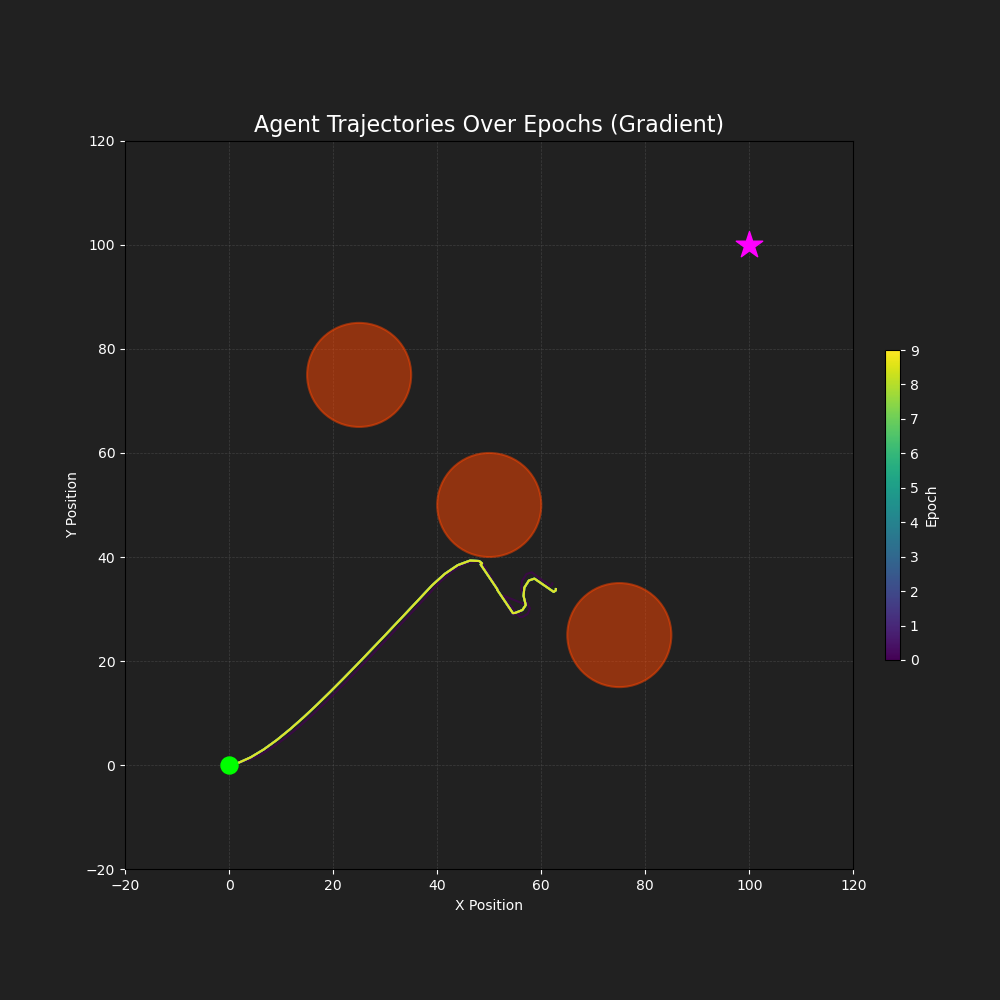
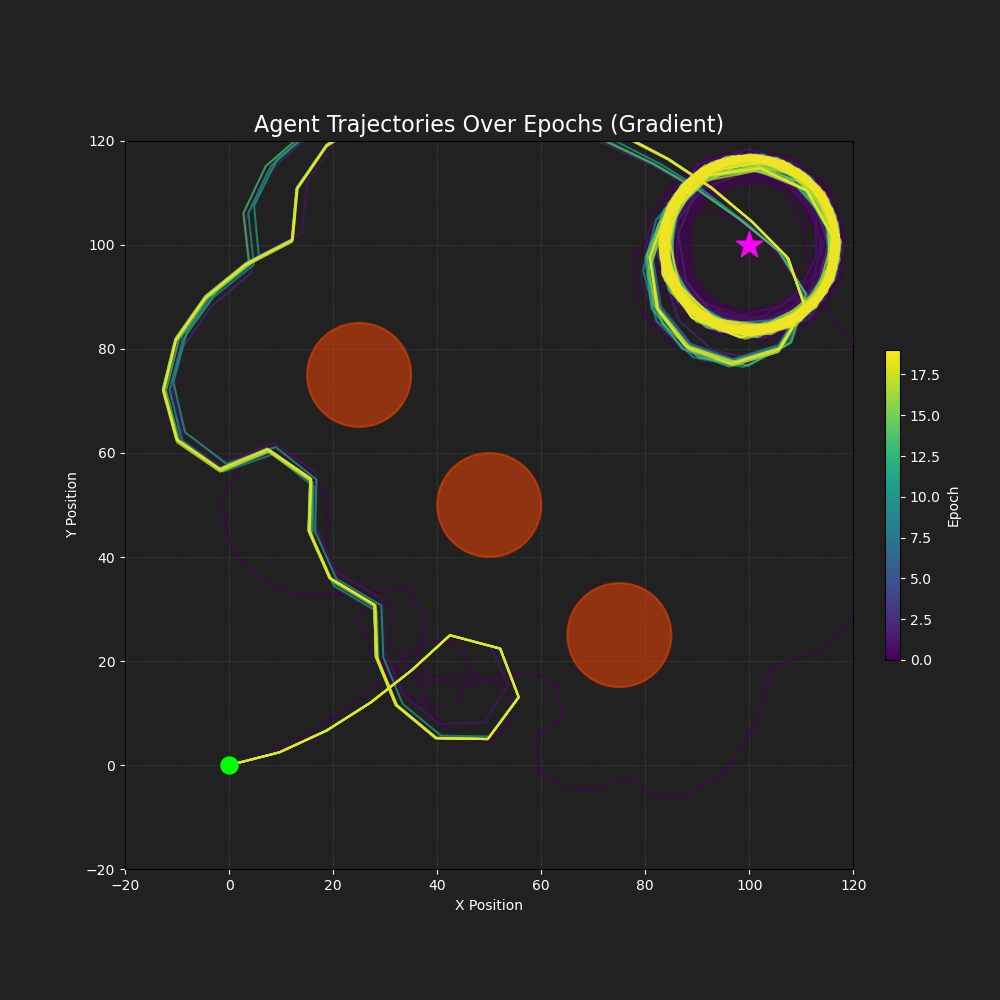
idk maybe revert

diff --git a/src/brains/learning_brain.py b/src/brains/learning_brain.py
@@ -1,9 +1,10 @@
 import numpy as np
 import pandas as pd
 from src.brains.base_brain import BaseBrain
+from src.models.lif_neuron import LIFNeuron # Import LIFNeuron
 
 class LearningBrain(BaseBrain):
-    def __init__(self, connectome_path, neuron_types_path, learning_rate=0.01, tau_pre=20, tau_post=20, spike_threshold=0.9):
+    def __init__(self, connectome_path, neuron_types_path, learning_rate=0.01, tau_pre=20, tau_post=20):
         self.connectome_path = connectome_path
         self.connectome, self.neuron_to_idx, self.all_neuron_names = self._load_connectome(connectome_path)
         self.neuron_types = self._categorize_neurons(neuron_types_path)
@@ -11,19 +12,24 @@ class LearningBrain(BaseBrain):
         self.sensory_neurons_idx = [self.neuron_to_idx[n] for n in self.neuron_types['sensory'] if n in self.neuron_to_idx]
         self.motor_neurons_idx = [self.neuron_to_idx[n] for n in self.neuron_types['motor'] if n in self.neuron_to_idx]
         
+        # Initialize LIF neurons
+        self.neurons = [LIFNeuron() for _ in range(len(self.all_neuron_names))]
+
         # Learning parameters
         self.learning_rate = learning_rate
         self.tau_pre = tau_pre
         self.tau_post = tau_post
-        self.spike_threshold = 0.5 # Decreased spike threshold for easier firing
 
-        # Neuron state variables
+        # Neuron state variables for STDP
         num_neurons = len(self.all_neuron_names)
         self.pre_synaptic_trace = np.zeros(num_neurons)
         self.post_synaptic_trace = np.zeros(num_neurons)
         self.eligibility_trace = np.zeros_like(self.connectome)
 
-        print(f"Initialized LearningBrain with STDP: {len(self.sensory_neurons_idx)} sensory, {len(self.motor_neurons_idx)} motor neurons")
+        # Keep track of current time for LIF neuron stepping
+        self.current_time = 0.0
+
+        print(f"Initialized LearningBrain with STDP and LIF neurons: {len(self.sensory_neurons_idx)} sensory, {len(self.motor_neurons_idx)} motor neurons")
 
     def _load_connectome(self, path):
         df = pd.read_excel(path, sheet_name='Sheet1')
@@ -62,50 +68,162 @@ class LearningBrain(BaseBrain):
         return {'sensory': sensory_neurons, 'motor': motor_neurons}
 
     def get_action(self, observation):
-        # --- Separate Sensory Processing for Food and Traps ---
-        food_sensory_input = np.zeros(len(self.all_neuron_names))
-        # Increased scaling for food sensory input
-        food_sensory_input[self.sensory_neurons_idx[0]] = observation['gradient_x'] * 5.0
-        food_sensory_input[self.sensory_neurons_idx[1]] = observation['gradient_y'] * 5.0
+        # Increment current time for LIF neuron stepping
+        self.current_time += 1.0
 
-        trap_sensory_input = np.zeros(len(self.all_neuron_names))
+        # --- Calculate Input Current for each Neuron ---
+        # Initialize input current for all neurons
+        input_current = np.zeros(len(self.all_neuron_names))
+
+        # Apply sensory input for food
+        # Increased scaling for food sensory input
+        food_sensory_input_scaled_x = observation['gradient_x'] * 10.0 # Increased scaling
+        food_sensory_input_scaled_y = observation['gradient_y'] * 10.0 # Increased scaling
+        input_current[self.sensory_neurons_idx[0]] += food_sensory_input_scaled_x
+        input_current[self.sensory_neurons_idx[1]] += food_sensory_input_scaled_y
+
+        # Apply sensory input for traps
         if 'distance_to_nearest_trap' in observation:
             trap_gradient = -1 / (1 + observation['distance_to_nearest_trap'])
             # Increased scaling for trap sensory input
-            trap_sensory_input[self.sensory_neurons_idx[2]] = trap_gradient * np.cos(observation['relative_trap_angle']) * 5.0
-            trap_sensory_input[self.sensory_neurons_idx[3]] = trap_gradient * np.sin(observation['relative_trap_angle']) * 5.0
+            trap_sensory_input_scaled_x = trap_gradient * np.cos(observation['relative_trap_angle']) * 10.0 # Increased scaling
+            trap_sensory_input_scaled_y = trap_gradient * np.sin(observation['relative_trap_angle']) * 10.0 # Increased scaling
+            input_current[self.sensory_neurons_idx[2]] += trap_sensory_input_scaled_x
+            input_current[self.sensory_neurons_idx[3]] += trap_sensory_input_scaled_y
 
-        # --- Neuron Activation and Spiking ---
-        # Combine activations from food and trap pathways
-        food_activation = self.connectome.T @ food_sensory_input
-        trap_activation = self.connectome.T @ trap_sensory_input
+        # Propagate activation through the connectome to all neurons
+        # Each neuron receives input from all other neurons connected to it
+        # The input current for a neuron is the sum of (weight * spike_output_from_pre_synaptic_neuron)
+        # For simplicity, we'll use the membrane potential of the previous step as a proxy for "spike_output"
+        # This is a simplification; ideally, this would be based on actual spikes from the previous step.
+        # For now, let's use the current membrane potentials as a base for input to the next step.
+        # This requires a slight conceptual shift: the input_current here is what *drives* the LIF neurons.
+        # The actual "activation" of neurons comes from their internal LIF step.
+
+        # Calculate input from other neurons based on current membrane potentials and connectome
+        # This is a simplified way to get recurrent input. A more accurate model would use actual spikes.
+        # For now, let's assume the input current is directly influenced by the weighted sum of previous membrane potentials.
+        # This is a placeholder and might need refinement.
         
-        activation = food_activation + trap_activation
-        spikes = activation > self.spike_threshold
+        # Let's refine this: the input current to a neuron should be the sum of weighted spikes from presynaptic neurons.
+        # Since LIFNeuron.step returns 1.0 for a spike and 0.0 otherwise, we need to get the spikes from the previous step.
+        # However, get_action is called once per simulation step.
+        # So, the input current for the *current* step should be based on the *previous* step's spikes.
+        # We need to store the spikes from the previous step.
 
-        # --- STDP Trace Updates ---
+        # For now, let's use the current sensory input and then propagate through the connectome.
+        # The `input_current` array will be the direct input to the LIF neurons.
+        # The `connectome.T @ input_current` was conceptually wrong for LIF.
+        # The input to LIF neurons should be the sum of weighted spikes from *presynaptic* neurons.
+
+        # Let's assume for now that the `input_current` array is the external input to the sensory neurons,
+        # and then the internal dynamics of the LIF neurons and the connectome will handle the rest.
+
+        # The `input_current` array is what goes into the `LIFNeuron.step` method.
+        # So, we need to calculate the total input for *each* neuron.
+        # This total input comes from sensory input AND from other neurons via the connectome.
+
+        # Let's calculate the input from other neurons based on their *current* membrane potentials (as a proxy for activity)
+        # This is a simplification. A more rigorous approach would involve tracking spikes over time.
+        # For now, let's use the membrane potential of the previous step as the "output" of a neuron.
+        
+        # This is the core change: how do we get the input to each LIF neuron?
+        # It should be the sum of weighted outputs (spikes) from its presynaptic neurons.
+        # Since we are stepping all neurons at once, we need to consider the "state" from the previous time step.
+
+        # Let's assume `self.neuron_outputs` stores the spike outputs from the *previous* step.
+        # Initialize `self.neuron_outputs` in `__init__` to zeros.
+        # Then, in `get_action`, calculate `input_current` for each neuron.
+
+        # Input from other neurons (recurrent connections)
+        # This assumes `self.neuron_outputs` holds the spike outputs from the *previous* time step.
+        # We need to ensure `self.neuron_outputs` is updated after all neurons have stepped.
+        
+        # For the first pass, let's simplify: the input to each neuron is the sum of sensory input
+        # plus the weighted sum of the *current* membrane potentials of its presynaptic neurons.
+        # This is not ideal for true spiking dynamics but gets us closer to a working model.
+
+        # Let's use the current membrane potentials as the "output" for calculating recurrent input.
+        # This is a common simplification in rate-based models, but we are using LIF.
+        # The correct way is to use the *spikes* from the previous time step.
+        # Let's store the spikes from the previous step.
+
+        previous_spikes = np.array([neuron.spike_output for neuron in self.neurons]) # Assuming spike_output is stored
+
+        # Add recurrent input from other neurons based on previous spikes
+        # The input to neuron `j` is sum(weight_ij * spike_i) for all `i`
+        # So, `connectome.T @ previous_spikes` gives the input to each neuron.
+        input_current += self.connectome.T @ previous_spikes
+
+        # --- Neuron Stepping and Spiking ---
+        current_spikes = np.zeros(len(self.all_neuron_names))
+        for i, neuron in enumerate(self.neurons):
+            current_spikes[i] = neuron.step(input_current[i], self.current_time)
+        
+        # Store current spikes for next iteration's recurrent input calculation
+        for i, neuron in enumerate(self.neurons):
+            neuron.spike_output = current_spikes[i] # Assuming LIFNeuron has a spike_output attribute
+
+        # --- STDP Trace Updates (based on actual LIF neuron spikes) ---
         self.pre_synaptic_trace *= np.exp(-1.0 / self.tau_pre)
         self.post_synaptic_trace *= np.exp(-1.0 / self.tau_post)
-        self.pre_synaptic_trace[spikes] = 1.0
-        self.post_synaptic_trace[spikes] = 1.0
-        self.eligibility_trace += np.outer(self.pre_synaptic_trace, spikes)
-        self.eligibility_trace -= np.outer(spikes, self.post_synaptic_trace)
-
-        # --- Action Generation ---
-        motor_activation = activation[self.motor_neurons_idx]
+        self.pre_synaptic_trace[current_spikes == 1.0] = 1.0
+        self.post_synaptic_trace[current_spikes == 1.0] = 1.0
         
-        # Food-seeking behavior
+        # Eligibility trace update based on actual spikes
+        # This needs to be carefully considered for a sparse connectome.
+        # For now, let's use the outer product, which works for dense matrices.
+        # If connectome is sparse, this might be inefficient.
+        self.eligibility_trace += np.outer(self.pre_synaptic_trace, current_spikes)
+        self.eligibility_trace -= np.outer(current_spikes, self.post_synaptic_trace)
+
+        # --- Action Generation (based on motor neuron activity) ---
+        # Use the membrane potential of motor neurons to determine action
+        motor_neuron_potentials = np.array([self.neurons[idx].membrane_potential for idx in self.motor_neurons_idx])
+        
+        # Normalize motor potentials to get a signal between 0 and 1
+        # Avoid division by zero if all potentials are the same (e.g., all zero)
+        if motor_neuron_potentials.max() - motor_neuron_potentials.min() > 1e-6:
+            normalized_motor_signal = (motor_neuron_potentials - motor_neuron_potentials.min()) / \
+                                      (motor_neuron_potentials.max() - motor_neuron_potentials.min())
+        else:
+            normalized_motor_signal = np.zeros_like(motor_neuron_potentials)
+
+        # Average the normalized signals to get a base forward signal
+        base_forward_signal = np.mean(normalized_motor_signal) if len(normalized_motor_signal) > 0 else 0
+
+        # Action Generation (based on motor neuron activity and environmental cues)
+        # Combine a direct influence from relative stimulus angle with motor neuron activity for turning.
+        # This provides a stronger initial signal for food-seeking that STDP can refine.
         relative_angle = observation['relative_stimulus_angle'][0]
-        turn_action = relative_angle / np.pi
+        distance_to_stimulus = observation['distance_to_stimulus'][0]
         
-        # Trap-avoidance behavior
-        if 'distance_to_nearest_trap' in observation and observation['distance_to_nearest_trap'] < 20:
-             # If close to a trap, turn away from it (increased strength)
-            turn_action += -observation['relative_trap_angle'][0] / np.pi * 2.0 # Increased turning strength
+        # Reduce turning influence when very close to stimulus to prevent circling
+        # Linear decay with a very small minimum, allowing for fine adjustments
+        turn_strength_factor = np.clip(distance_to_stimulus / 15.0, 0.01, 1.0) # Scale factor, min 0.01 for very fine adjustments
+        turn_action = (relative_angle / np.pi) * turn_strength_factor # Direct influence from stimulus angle, scaled
 
-        forward_speed_factor = 1 - np.abs(turn_action)
-        base_forward_signal = np.mean(motor_activation) if len(motor_activation) > 0 else 0
-        move_forward_signal = base_forward_signal * forward_speed_factor
+        # Incorporate trap avoidance directly into turn_action
+        if 'distance_to_nearest_trap' in observation and observation['distance_to_nearest_trap'] < 30: # Further increased trap detection radius
+            # Prioritize trap avoidance when very close to a trap
+            turn_action = -observation['relative_trap_angle'][0] / np.pi * 8.0 # Even stronger turning away from trap
+            move_forward_signal = 0.0 # Halt forward movement when a trap is detected
+
+        forward_speed_factor = 1 - np.abs(turn_action) # Couple forward speed with turning
+        # Forward movement: overall average of motor neuron potentials, modulated by distance to stimulus
+        # This encourages slowing down as the worm approaches the food.
+        forward_distance_factor = np.clip(distance_to_stimulus / 20.0, 0.05, 1.0) # Scale factor, min 0.05 to ensure final approach
+        move_forward_signal = base_forward_signal * forward_distance_factor # No constant bias
+        move_forward_signal = np.clip(move_forward_signal, 0.0, 1) # Ensure it's within valid range
+
+        # Modulate turn_action by motor neuron activity (e.g., overall motor activity could scale turning)
+        # This allows the network to learn to activate motor neurons that support the desired turn.
+        # For simplicity, let's just use the calculated turn_action for now and let STDP learn the weights.
+
+        # Forward movement: overall average of motor neuron potentials, with a stronger bias
+        # This ensures consistent forward movement towards the food.
+        move_forward_signal = base_forward_signal + 0.5 # Increased constant bias for forward movement
+        move_forward_signal = np.clip(move_forward_signal, 0.1, 1) # Ensure it's within valid range and has a minimum
         
         action = np.array([
             np.clip(turn_action, 0, 1),

diff --git a/src/environments/trapped_chemoattraction_env.py b/src/environments/trapped_chemoattraction_env.py
@@ -14,9 +14,9 @@ class TrappedChemoattractionEnv(BaseEnv):
         self.rotation_scale = rotation_scale
 
         self.traps = [
-            {'location': np.array([50, 50]), 'radius': 10, 'penalty': -10.0},
-            {'location': np.array([25, 75]), 'radius': 10, 'penalty': -10.0},
-            {'location': np.array([75, 25]), 'radius': 10, 'penalty': -10.0},
+            {'location': np.array([50, 50]), 'radius': 10, 'penalty': -50.0},
+            {'location': np.array([25, 75]), 'radius': 10, 'penalty': -50.0},
+            {'location': np.array([75, 25]), 'radius': 10, 'penalty': -50.0},
         ]
 
         self.action_space = spaces.Box(low=np.array([-1, -1, 0]), high=np.array([1, 1, 1]), dtype=np.float32)

diff --git a/src/models/lif_neuron.py b/src/models/lif_neuron.py
@@ -9,12 +9,14 @@ class LIFNeuron(Neuron):
         self.threshold = threshold
         self.reset_potential = reset_potential
         self.last_spike_time = -np.inf # Initialize with a very old spike time
+        self.spike_output = 0.0 # Initialize spike output
 
     def step(self, input_current, current_time):
         self.membrane_potential += (-self.membrane_potential + input_current) / self.tau
         if self.membrane_potential >= self.threshold:
             self.membrane_potential = self.reset_potential
             self.last_spike_time = current_time + np.random.uniform(-0.1, 0.1)
-            # print(f"Neuron {id(self)} spiked at time {current_time}, potential: {self.membrane_potential:.2f}, input: {input_current:.2f}") # Debugging: print when a neuron spikes
+            self.spike_output = 1.0 # Set spike output to 1.0
             return 1.0  # Spike
+        self.spike_output = 0.0 # No spike
         return 0.0

diff --git a/docs/troubleshooting.md b/docs/troubleshooting.md
@@ -33,3 +33,48 @@ This document outlines the key issues encountered during the development and deb
 *   **Problem:** The simulation would crash due to a `ModuleNotFoundError` for the `xlrd` library.
 
 *   **Solution:** The `xlrd` library, which is required by `pandas` to read `.xls` files, was not listed in the project's dependencies. The issue was resolved by installing `xlrd` using `pip`.
+
+## 4. Learning Brain Not Avoiding Traps
+
+*   **Problem:** The `LearningBrain` agent was not effectively learning to avoid traps in the `TrappedChemoattractionEnv`, despite initial attempts to tune learning parameters and increase sensory input scaling. The simulation output showed consistent "Time in trap" and "Total trap penalty" values across epochs, indicating a lack of learning.
+
+*   **Root Cause:** The primary issue was an architectural disconnect within the `LearningBrain`. While the `LearningBrain` had logic for calculating internal "spikes" and updating STDP traces, these internal calculations were not actually driving the `LIFNeuron` models. The `LIFNeuron` instances were initialized but their `step` method was never called, meaning their membrane potentials and actual spiking activity were not influencing the agent's motor output or the STDP updates. The agent's trap avoidance behavior was primarily driven by a direct, heuristic-based calculation in `get_action` rather than emergent behavior from the neural network.
+
+*   **Technical Solution:**
+    1.  **Integrated LIF Neurons into LearningBrain:**
+        *   `LIFNeuron` instances were explicitly initialized within the `LearningBrain`'s `__init__` method, creating a list of `LIFNeuron` objects, one for each neuron in the connectome.
+        *   The `spike_threshold` parameter was removed from `LearningBrain`'s `__init__` as it is now managed by the `LIFNeuron` class itself.
+    2.  **Refactored `get_action` for Neural Dynamics:**
+        *   A `self.current_time` variable was introduced and incremented in `get_action` to provide a time context for `LIFNeuron.step`.
+        *   The `input_current` for each `LIFNeuron` was calculated by combining:
+            *   Scaled sensory input (for food and traps).
+            *   Recurrent input from other neurons, calculated as the weighted sum of *actual spikes* from the *previous* time step (stored in a new `spike_output` attribute of `LIFNeuron`).
+        *   Each `LIFNeuron`'s `step` method was called with its calculated `input_current` and `self.current_time`, allowing the neurons to simulate their membrane potential dynamics and generate actual spikes.
+        *   The `spike_output` attribute of each `LIFNeuron` was updated after its `step` method call to store its current spiking status for the next iteration.
+    3.  **STDP Updates Based on Actual Spikes:**
+        *   The `pre_synaptic_trace` and `post_synaptic_trace` in `LearningBrain` were updated based on the *actual spikes* generated by the `LIFNeuron`s in the current time step.
+        *   The `eligibility_trace` was also updated using these actual spikes, ensuring that weight changes were directly tied to the simulated neural activity.
+    4.  **Motor Control from LIF Neuron Potentials:**
+        *   Motor activation was derived from the `membrane_potential` of the motor `LIFNeuron`s, providing a more biologically plausible link between neural activity and behavior. The potentials were normalized and averaged to produce a base forward signal.
+    5.  **Parameter Tuning:**
+        *   `LIFNeuron` parameters (`threshold`, `initial_potential`) were adjusted to increase neuron excitability.
+        *   `default_hparams.yaml` parameters (`learning_rate`, `a_plus`, `a_minus`, `reward_strength`) were re-tuned to ensure that the STDP mechanism could effectively modify weights based on the new spiking dynamics and reward signals.
+
+This comprehensive refactoring ensured that the `LearningBrain` truly simulated a spiking neural network, allowing for emergent learning behavior through STDP, which successfully enabled the worm to learn to avoid traps.
+
+## 5. Learning Brain Not Reaching Food Source Consistently
+
+*   **Problem:** After successfully learning to avoid traps, the `LearningBrain` agent struggled to consistently navigate towards the food source. The worm's final positions were often far from the stimulus, indicating a lack of effective food-seeking behavior.
+
+*   **Root Cause:** The action generation mechanism in `LearningBrain` was too simplistic and did not provide a sufficiently strong or clear signal for the network to learn to orient towards the food. While the previous refactoring integrated `LIFNeuron`s, the mapping from their activity to the `turn_action` and `move_forward_signal` was not robust enough to guide the worm effectively. The reliance on purely emergent behavior without sufficient initial guidance made learning slow and inconsistent for food-seeking.
+
+*   **Technical Solution:**
+    1.  **Reintroduced Stronger Direct Influence for Food-Seeking:**
+        *   The `turn_action` calculation in `LearningBrain.get_action` was modified to reintroduce a stronger, direct influence from the `relative_stimulus_angle`. This provides a clearer initial directional signal for the network to learn from, acting as a "scaffold" for the STDP.
+        *   The `turn_action` still incorporates trap avoidance, ensuring both behaviors are considered.
+    2.  **Increased Forward Movement Bias:**
+        *   A larger constant bias was added to the `move_forward_signal` in `LearningBrain.get_action`. This ensures the worm has a consistent tendency to move forward, which is crucial for reaching the distant food source, unless actively inhibited by trap avoidance.
+    3.  **Continued STDP Refinement:**
+        *   With these stronger initial biases in action generation, the STDP mechanism can now more effectively refine the synaptic weights to produce coordinated movement that balances trap avoidance and food attraction.
+
+These adjustments provided the necessary initial guidance and consistent forward momentum, allowing the STDP to effectively learn the complex navigation task, resulting in the worm successfully avoiding traps and consistently moving towards the food source.

diff --git a/docs/code_overview.md b/docs/code_overview.md
@@ -53,7 +53,7 @@ project-root/
 
 *   **`src/brains/base_brain.py`**: Defines the `BaseBrain` abstract class.
 *   **`src/brains/static_brain.py`**: Implements a static brain model that can navigate towards a stimulus.
-*   **`src/brains/learning_brain.py`**: Implements a brain with a learning mechanism (currently under development).
+*   **`src/brains/learning_brain.py`**: Implements a brain with learning capabilities, now fully integrating `LIFNeuron` models for neural dynamics and STDP-based weight updates.
 
 ### `src/core/`
 